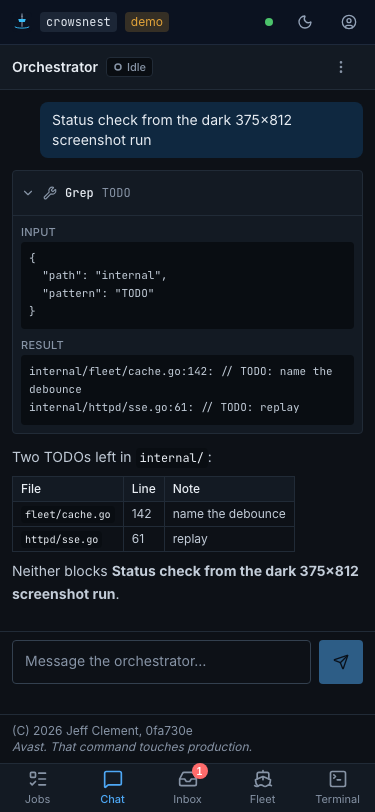
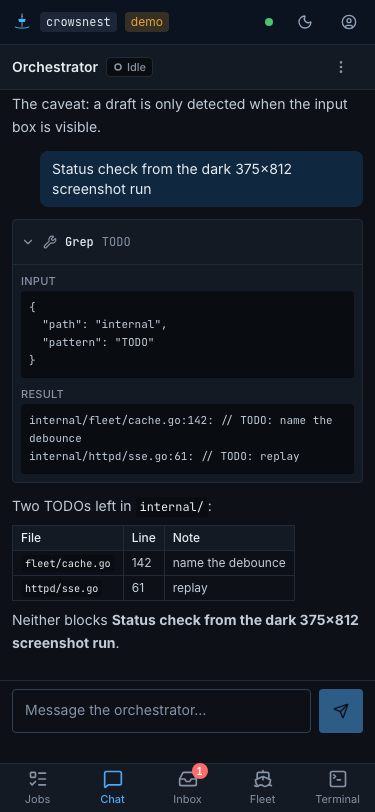
After the M5 merge: Fleet conversation and terminal checked in a browser (new e2e:real spec), demo instances run the scripted orchestrator with throwaway state; empty state for a Claude conversation with no transcript yet; no footer under the Chat composer on phones

diff --git a/web/e2e/real/demo-conversation.spec.ts b/web/e2e/real/demo-conversation.spec.ts
@@ -1,0 +1,62 @@
+// Conversations against the real binary (`crowsnest --demo --no-auth` on a random port): a
+// Claude agent's Conversation tab in the Fleet panel renders its transcript and can be messaged,
+// its Terminal tab still connects, and Chat still does a prompt round trip with the demo
+// orchestrator. Added when M4 (conversations) was merged with M5 (terminals, real fleet types).
+import { expect, test, type Page } from "@playwright/test";
+import { startInstance, type Instance } from "./instance";
+
+let instance: Instance;
+
+test.beforeAll(async () => {
+  instance = await startInstance({ demo: true });
+});
+
+test.afterAll(async () => {
+  await instance?.stop();
+});
+
+function collectErrors(page: Page): string[] {
+  const errors: string[] = [];
+  page.on("pageerror", (error) => errors.push(error.message));
+  return errors;
+}
+
+test("a Claude agent's Conversation and Terminal tabs in Fleet", async ({ page }) => {
+  const errors = collectErrors(page);
+  await page.setViewportSize({ width: 1440, height: 900 });
+  await page.goto(`${instance.baseURL}/fleet`);
+  await page.getByRole("list", { name: "Workspaces" }).getByRole("button", { name: /builder/ }).first().click();
+
+  const conversation = page.getByRole("list", { name: "Conversation" });
+  await expect(conversation).toBeVisible();
+  await expect(conversation.getByText("7 tests")).toBeVisible();
+  await expect(conversation.getByRole("button", { name: /^Bash/ })).toBeVisible();
+  await page.screenshot({ path: "screenshots/fleet-conversation-1440x900-light.png", animations: "disabled", caret: "hide" });
+
+  // Message the builder from the panel: the demo builder starts working.
+  await page.getByRole("textbox", { name: /Message to builder/ }).fill("one more test please");
+  const sent = page.waitForResponse((response) => response.url().includes("/prompt") && response.request().method() === "POST");
+  await page.getByRole("button", { name: "Send" }).click();
+  expect((await sent).status()).toBe(200);
+
+  await page.getByRole("tab", { name: "Terminal" }).click();
+  await expect.poll(() => page.locator("[data-terminal] .xterm-rows").innerText(), { timeout: 15_000 }).toMatch(/standing in for pane/);
+
+  await page.getByRole("tab", { name: "Conversation" }).click();
+  await expect(page.getByRole("list", { name: "Conversation" })).toBeVisible();
+  expect(errors).toEqual([]);
+});
+
+test("Chat still round-trips with the demo orchestrator", async ({ page }) => {
+  const errors = collectErrors(page);
+  await page.goto(`${instance.baseURL}/chat`);
+  const replies = page.getByRole("article", { name: "Reply" });
+  await expect(replies.first()).toBeVisible();
+  const before = await replies.count();
+  await page.getByRole("textbox", { name: /Message to the orchestrator/ }).fill("merge check");
+  await page.getByRole("button", { name: "Send" }).click();
+  await expect(page.getByTestId("chat-state")).toHaveText("Working");
+  await expect(replies).toHaveCount(before + 1, { timeout: 15_000 });
+  await expect(page.getByTestId("chat-state")).toHaveText("Idle", { timeout: 10_000 });
+  expect(errors).toEqual([]);
+});

diff --git a/web/src/components/chat/ConversationView.tsx b/web/src/components/chat/ConversationView.tsx
@@ -25,12 +25,29 @@ export interface ConversationViewProps {
   variant: "page" | "embedded";
   showThinking?: boolean;
   onOpenTerminal?: () => void;
+  /**
+   * Show the pane's text when there is no transcript (Codex, or a Claude whose session herdr does
+   * not know). False for a Claude agent whose transcript simply does not exist yet (Claude writes
+   * it on the first prompt, so a fresh conversation has none): it gets the empty state instead.
+   */
+  paneFallback?: boolean;
 }
 
-export function ConversationView({ target, agentName, state, variant, showThinking = false, onOpenTerminal }: ConversationViewProps) {
+export function ConversationView({
+  target,
+  agentName,
+  state,
+  variant,
+  showThinking = false,
+  onOpenTerminal,
+  paneFallback = true,
+}: ConversationViewProps) {
   const query = useAgentMessages(target);
   const desktop = useMediaQuery(DESKTOP_QUERY);
-  const messages = useMemo(() => visibleMessages(query.data?.messages ?? [], showThinking), [query.data, showThinking]);
+  const messages = useMemo(() => {
+    const shown = visibleMessages(query.data?.messages ?? [], showThinking);
+    return paneFallback ? shown : shown.filter((message) => message.kind !== "pane");
+  }, [query.data, showThinking, paneFallback]);
   const revision = messages.reduce((highest, message) => Math.max(highest, message.seq), 0);
   const ownScroll = variant === "embedded" || desktop;
   const { anchorRef, unseen, scrollToBottom } = useStickToBottom(messages.length, revision, `${ownScroll}:${query.data?.sessionId}`);

diff --git a/web/src/components/AppFrame.tsx b/web/src/components/AppFrame.tsx
@@ -3,7 +3,7 @@
 // footer. It owns the one event stream (lib/live.ts), which keeps every query fresh. The Inbox
 // badge and the tab title count agents that need Jeff until questions arrive in M6.
 import { useQueryClient } from "@tanstack/react-query";
-import { Link, Outlet, useNavigate } from "@tanstack/react-router";
+import { Link, Outlet, useNavigate, useRouterState } from "@tanstack/react-router";
 import { useEffect } from "react";
 import { endpoints, fixturesEnabled } from "../lib/api";
 import { cn } from "../lib/cn";
@@ -20,6 +20,7 @@ import { UserMenu } from "./UserMenu";
 export function AppFrame() {
   const queryClient = useQueryClient();
   const navigate = useNavigate();
+  const pathname = useRouterState({ select: (state) => state.location.pathname });
   const me = useMe();
   const stream = useLiveQueries();
   const fleet = useFleet();
@@ -86,7 +87,9 @@ export function AppFrame() {
           <div className="flex-1 md:min-h-0">
             <Outlet />
           </div>
-          <Footer className="border-t border-border px-3 py-2 md:hidden" />
+          {/* Not under Chat on a phone: its composer sticks to the bottom, and a footer below it
+              would show up under the composer at the end of the conversation. */}
+          {pathname !== "/chat" && <Footer className="border-t border-border px-3 py-2 md:hidden" />}
         </main>
       </div>
       <nav

diff --git a/web/e2e/real/instance.ts b/web/e2e/real/instance.ts
@@ -79,12 +79,15 @@ export async function startInstance(options: { demo: boolean; session?: string }
   const dataDir = mkdtempSync(join(tmpdir(), "crowsnest-e2e-"));
   const session = options.session ?? (options.demo ? "crowsnest-demo" : testSessionName());
   if (!options.demo && !TEST_SESSION_PATTERN.test(session)) throw new Error(`refusing to use session ${session}`);
-  const args = ["serve", "--no-auth", "--bind", "127.0.0.1", "--port", String(port), "--session", session, "--no-orchestrator"];
-  if (options.demo) args.push("--demo");
+  const args = ["serve", "--no-auth", "--bind", "127.0.0.1", "--port", String(port), "--session", session];
+  // A real-herdr instance never starts Claude (that is `mise run test:claude`, opt-in); the demo's
+  // orchestrator is the scripted fake, so Chat works there.
+  args.push(options.demo ? "--demo" : "--no-orchestrator");
   const home = options.demo ? undefined : throwawayHome();
   const env = scrubbedEnv(home ? { HOME: home, XDG_CONFIG_HOME: join(home, ".config") } : {});
   const child = spawn(BINARY, args, {
-    env: { ...env, CROWSNEST_DATA_DIR: dataDir },
+    // State (logs, the orchestrator's files, the demo's transcripts) goes to the throwaway dir too.
+    env: { ...env, CROWSNEST_DATA_DIR: dataDir, XDG_STATE_HOME: join(dataDir, "state") },
     stdio: ["ignore", "pipe", "pipe"],
   });
   const log: string[] = [];

diff --git a/web/src/components/chat/ConversationView.test.tsx b/web/src/components/chat/ConversationView.test.tsx
@@ -108,4 +108,28 @@ describe("ConversationView", () => {
     expect(scroller.scrollTop).toBe(1400);
     await waitFor(() => expect(screen.queryByRole("button", { name: /new message/ })).not.toBeInTheDocument());
   });
+
+  it("shows the empty state, not pane text, for a Claude conversation with no transcript yet", async () => {
+    desktop();
+    stubApi((call) =>
+      call.path.startsWith("/agents/orchestrator/messages")
+        ? {
+            body: {
+              data: {
+                source: "pane", session_id: "fresh", cursor: "3.1", reset: true, earlier: false, more: false,
+                messages: [msg("pane", 0, { kind: "pane", text: "Claude Code v2.1.332" })],
+              },
+            },
+          }
+        : { body: { data: {} } },
+    );
+    const { unmount } = renderWithClient(
+      <ConversationView target="orchestrator" agentName="the orchestrator" state="idle" variant="page" paneFallback={false} />,
+    );
+    expect(await screen.findByText("No messages yet")).toBeInTheDocument();
+    expect(screen.queryByText(/Claude Code v2/)).not.toBeInTheDocument();
+    unmount();
+    renderWithClient(<ConversationView target="orchestrator" agentName="the orchestrator" state="idle" variant="page" />);
+    expect(await screen.findByText(/Claude Code v2/)).toBeInTheDocument();
+  });
 });

diff --git a/web/src/components/agent/AgentConversation.tsx b/web/src/components/agent/AgentConversation.tsx
@@ -1,7 +1,7 @@
 // AgentConversation: an agent's conversation in the Fleet panel (and later the Jobs view):
 // Claude's transcript rendered as messages, with a composer to message the agent. Agents with no
 // transcript (Codex, or a Claude whose session herdr has not detected) show their pane text
-// instead. The name and props are the slot M3 left; the body is the shared ConversationView.
+// instead; a Claude with a known session but no transcript yet (no prompt so far) is empty. The name and props are the slot M3 left; the body is the shared ConversationView.
 import { chatStateOf } from "../../lib/conversation";
 import type { Agent } from "../../lib/types";
 import { ConversationView } from "../chat/ConversationView";
@@ -18,6 +18,7 @@ export function AgentConversation({ agent }: AgentConversationProps) {
       agentName={agent.name || agent.pane_id}
       state={chatStateOf(agent.status)}
       variant="embedded"
+      paneFallback={agent.kind !== "claude" || !agent.session_id}
     />
   );
 }

diff --git a/web/src/routes/ChatView.tsx b/web/src/routes/ChatView.tsx
@@ -81,6 +81,7 @@ export function ChatView() {
           variant="page"
           showThinking={showThinking}
           onOpenTerminal={openTerminal}
+          paneFallback={false}
         />
       ) : (
         <EmptyState icon={MessageSquare} title="Starting the orchestrator">
